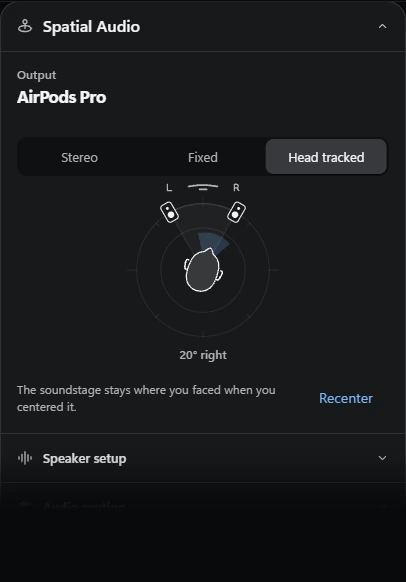
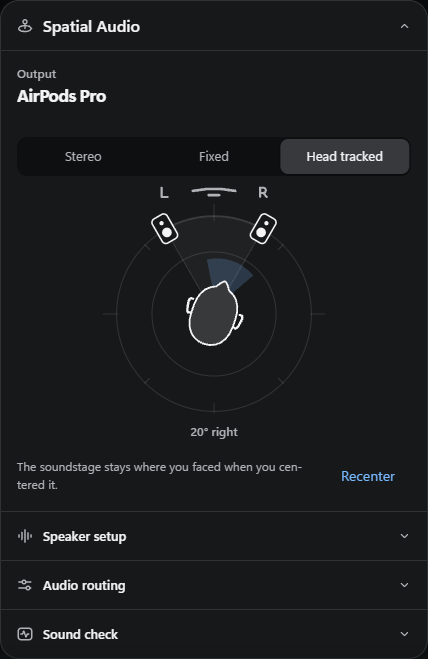
Show real Parity captures on the GitHub landing page

diff --git a/README.md b/README.md
@@ -1,77 +1,75 @@
-<p align="center">
-  <img src="docs/media/parity-mark.png" width="72" height="72" alt="">
-</p>
+# Parity
 
-<h1 align="center">Parity</h1>
+[![Parity for Windows. The Overview shows AirPods Pro 3 batteries, listening modes, and Cry for Me by Magdalena Bay in Spotify.](docs/media/parity-banner.webp)](docs/media/overview.webp)
 
-<p align="center"><strong>Your AirPods, at home on Windows.</strong></p>
 <p align="center">
-  See what’s charged, switch listening modes, and control your audio from one desktop app.
-</p>
-<p align="center">
-  <a href="https://github.com/owenawsong/parity/releases"><strong>Releases</strong></a> ·
-  <a href="#install">Install</a> ·
-  <a href="#compatibility">Compatibility</a> ·
+  <a href="https://github.com/owenawsong/parity/releases"><strong>Windows downloads</strong></a> ·
+  <a href="#install">Setup</a> ·
+  <a href="#compatibility">AirPods compatibility</a> ·
   <a href="docs/development.md">Build from source</a>
 </p>
 
-![Parity’s dark Windows app showing the earbuds and case batteries, listening modes, and Now Playing beside the nearby connection popup](docs/media/overview.webp)
+Parity brings the controls you reach for most into the Windows tray. See each earbud and the case at a glance, switch from Transparency to Noise Cancellation, and get back to what you were playing.
 
-*Parity’s interface with sample device and playback data.*
+## Open the case and connect
 
-## What you can do
+<img align="right" src="docs/media/nearby.webp" width="242" alt="Parity's nearby connection popup with rendered AirPods Pro 3, earbud and case battery rings, and a Connect button">
 
-| | |
-| --- | --- |
-| **Connect from the tray** | Open a recognized case near your PC to see a connection prompt. Check each AirPod and the case on the dashboard, with a timestamp when the last case reading is all that’s available. Choose separate left/right readings for the nearby popup in Settings. |
-| **Change how you listen** | Switch between the modes your pair supports. Adjust Adaptive Audio, tune the on-device equalizer on supported firmware, or use Now Playing to control a compatible app. |
-| **Try spatial audio on Windows** | Compare Stereo, Fixed, and Head Tracked with an interactive speaker diagram. Parity renders the spatial effect on the PC and can use AirPods motion to anchor the sound as you move. |
-| **Set up your microphone** | Check the AirPods input, record and play back a sample, and tune voice processing. Supported models can keep stereo playback while using the AirPods mic through the WPods audio route. |
-| **Explore the sensors** | Practice nod and shake gestures, assign shortcuts, or view live heart rate and past Pulse sessions on AirPods Pro 3. |
+Open a recognized case near your PC and use the nearby prompt to connect. Once you're connected, Overview shows the separate batteries, listening modes available on your model, and playback controls for the active media app.
+
+A case can stop reporting after you close it. When Parity has an earlier reading, it shows the battery level with the time it was last seen.
+
+The nearby card shows one battery reading for the pair and one for the case. Turn on **Separate earbud batteries** in Settings if you want both earbud readings there too.
+
+<br clear="right">
+
+## Make it sound the way you want
+
+- **Listening modes and EQ.** Switch between the modes your AirPods support, adjust the Adaptive Audio balance, or tune the three-band equalizer stored on compatible AirPods.
+- **Spatial Audio on Windows.** Try Fixed or Head Tracked with an interactive speaker view. Parity renders the spatial effect on your PC and can use AirPods motion to keep the soundstage anchored as you turn.
+- **A microphone you can check before a call.** See the input level, record a sample, listen back, and adjust voice processing. The stereo microphone route depends on your AirPods model and the WPods service.
+- **Gestures and Pulse.** Practice a nod or shake, assign shortcuts, or view live heart rate and session history on AirPods Pro 3.
 
 <details>
-<summary>See Sound and Spatial Audio</summary>
+<summary>See the equalizer and spatial audio controls</summary>
 <br>
 <p align="center">
-  <img src="docs/media/sound.webp" width="47%" alt="Custom equalizer with bass, midrange, and treble controls">
-  <img src="docs/media/spatial.webp" width="47%" alt="Head Tracked spatial audio with an overhead view of the listener and the two virtual speakers">
+  <img src="docs/media/sound.webp" width="46%" alt="Parity's custom equalizer with bass, midrange, and treble controls">
+  <img src="docs/media/spatial.webp" width="46%" alt="Parity's Head Tracked mode and speaker diagram">
 </p>
 </details>
 
 ## Install
 
-Parity is in preview. The desktop package requires **Windows 10 (2004 or newer) or Windows 11 on x64**, the **.NET 10 Desktop Runtime (x64)**, and the **Microsoft Edge WebView2 Runtime**. AirPods controls use the existing **WPods Bluetooth service and its driver**.
+The preview requires **Windows 10 (2004 or newer) or Windows 11 on x64**, the **.NET 10 Desktop Runtime (x64)**, and the **Microsoft Edge WebView2 Runtime**. AirPods control uses the **WPods Bluetooth service and driver**.
 
-1. Install and configure [WPods](https://github.com/FPNDev/wpods#install). Pair your AirPods in Windows and quit the WPods tray app before opening Parity. Leave its background service running.
-2. Get the Windows x64 ZIP from [Releases](https://github.com/owenawsong/parity/releases) when a build is available. Extract the whole archive.
+1. Install and configure [WPods](https://github.com/FPNDev/wpods#install). Pair your AirPods in Windows, then quit the WPods tray app. Leave its background service running.
+2. Download the Windows x64 ZIP from [Releases](https://github.com/owenawsong/parity/releases) when a build is available and extract it.
 3. Open PowerShell in the extracted folder, run `.\Install-Parity.ps1`, and open **Parity** from Start.
 
-To switch back, quit Parity from the tray and reopen WPods. The apps keep separate preferences and share the Bluetooth service.
+To switch back, quit Parity from the tray and reopen WPods. Both apps keep separate preferences and share the Bluetooth service.
 
 ## Compatibility
 
-Listening controls adapt to the connected model. Other features, including on-device EQ, stereo microphone, and head tracking, also depend on what the model and firmware expose.
+**AirPods Pro 3** is the primary hardware test pair. Other model layouts and modes have been checked with simulated devices. Nearby discovery, the stereo microphone, spatial head tracking, and on-device settings also depend on your adapter, service version, model, or firmware.
 
 | AirPods family | Listening modes in Parity |
 | --- | --- |
 | AirPods 1–4 without ANC | Standard playback |
 | AirPods Pro 1 and AirPods Max 1 | Off, Transparency, Noise Cancellation |
 | AirPods 4 with ANC, AirPods 5, and AirPods Max 2 | Off, Transparency, Adaptive, Noise Cancellation |
-| AirPods Pro 2 and AirPods Pro 3 | Transparency, Adaptive, Noise Cancellation. Off can be enabled in Advanced settings. |
+| AirPods Pro 2 and AirPods Pro 3 | Transparency, Adaptive, Noise Cancellation. Enable Off in Advanced settings. |
 
-**AirPods Pro 3** is the primary hardware test pair. The other model layouts and mode combinations have been checked with simulated devices. Nearby discovery and device controls may vary with the Bluetooth adapter, service version, and firmware.
+The screenshots show Parity with locally prepared AirPods artwork. The downloadable ZIP uses Parity’s bundled illustrations. Spatial processing depends on the selected Windows playback route. Apple hearing setup is available on supported Apple devices.
 
-Closed cases can stop reporting battery. Parity keeps the last known charge when it has one and shows when it was seen. Windows spatial audio processing in Parity depends on the selected playback route. Apple hearing setup is available on supported Apple devices.
+## Development and feedback
 
-## Build and report issues
-
-- [Build and package Parity](docs/development.md), run its regression suites, or open the simulated interface without AirPods.
-- [Report a bug or share a compatibility result](https://github.com/owenawsong/parity/issues/new/choose). Include the Parity version, AirPods model, and Windows build.
+[Build or preview the app](docs/development.md) or [share an issue or hardware test result](https://github.com/owenawsong/parity/issues/new/choose). Include the Parity version, AirPods model, and Windows build if you’re reporting a problem.
 
 ## Credits and license
 
 Parity takes design inspiration from [MagicPods](https://magicpods.app/), [AirPodsDesktop](https://github.com/SpriteOvO/AirPodsDesktop), and Apple’s AirPods experience. Its Bluetooth and device-control code builds on [WPods by FPNDev](https://github.com/FPNDev/wpods).
 
-Parity modifies WPods v0.4.1 (commit `0019866`). This Parity snapshot is dated **November 22, 2026** and is released under the [GNU General Public License v3.0](LICENSE). See [third-party notices](THIRD-PARTY-NOTICES.txt) for bundled dependencies and [upstream documentation](docs/wpods-upstream.md) for the original project documentation.
+This modified version of WPods v0.4.1 (commit `0019866`) is dated **November 22, 2026** and is licensed under the [GNU General Public License v3.0](LICENSE). See the [third-party notices](THIRD-PARTY-NOTICES.txt) and [original WPods documentation](docs/wpods-upstream.md).
 
 Parity is independent of Apple. AirPods and related Apple product names are trademarks of Apple Inc.
